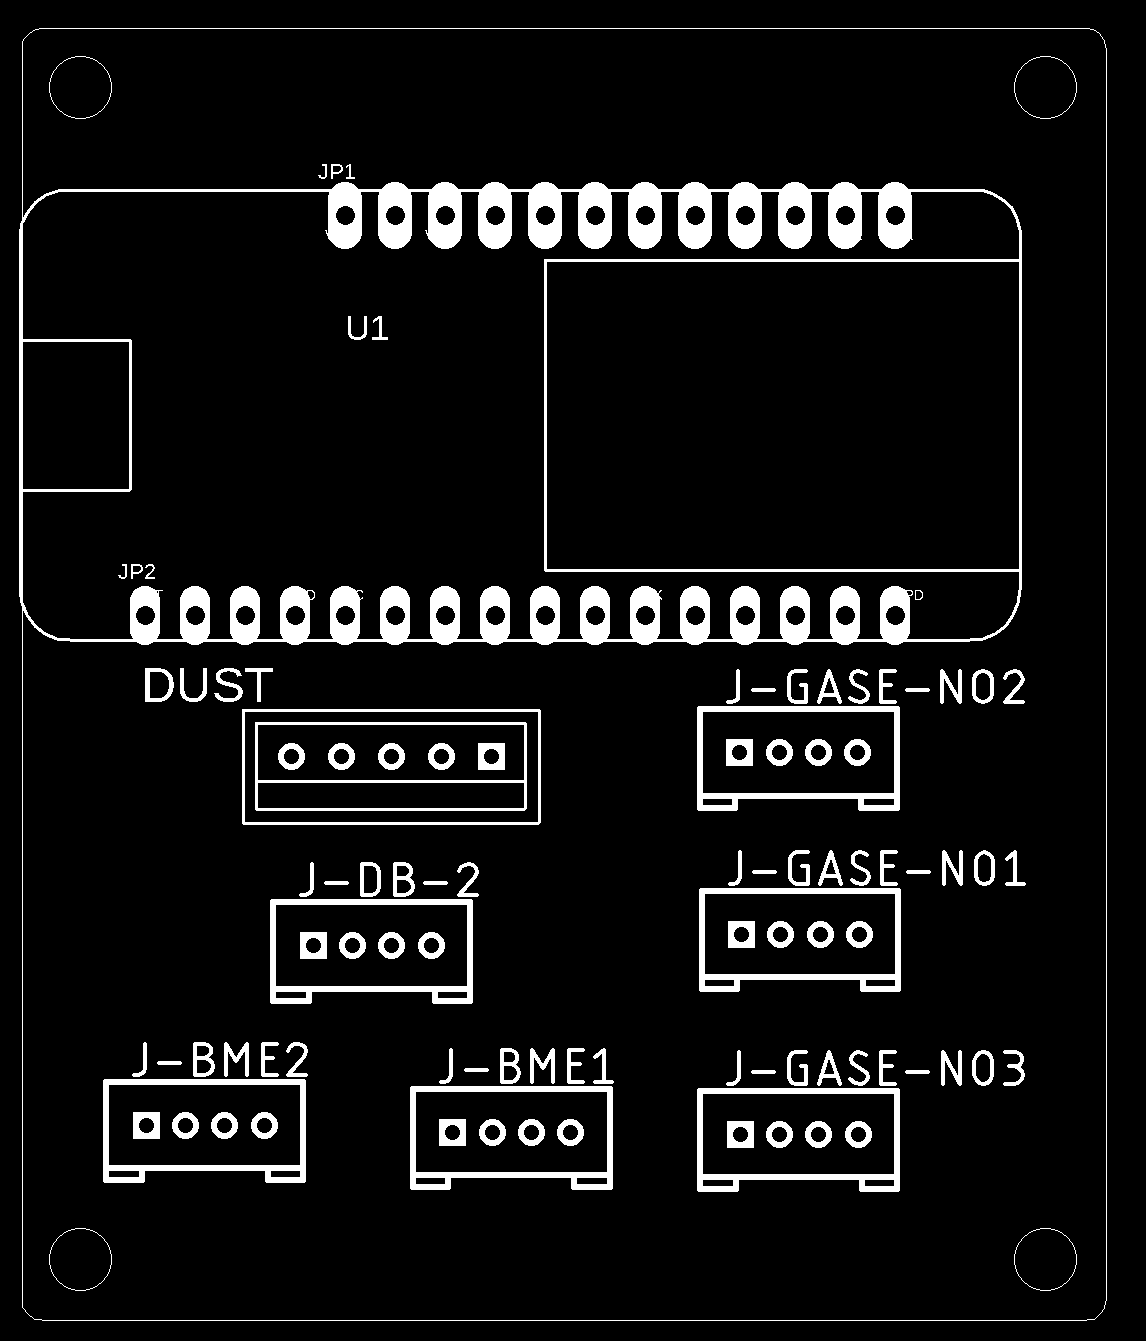
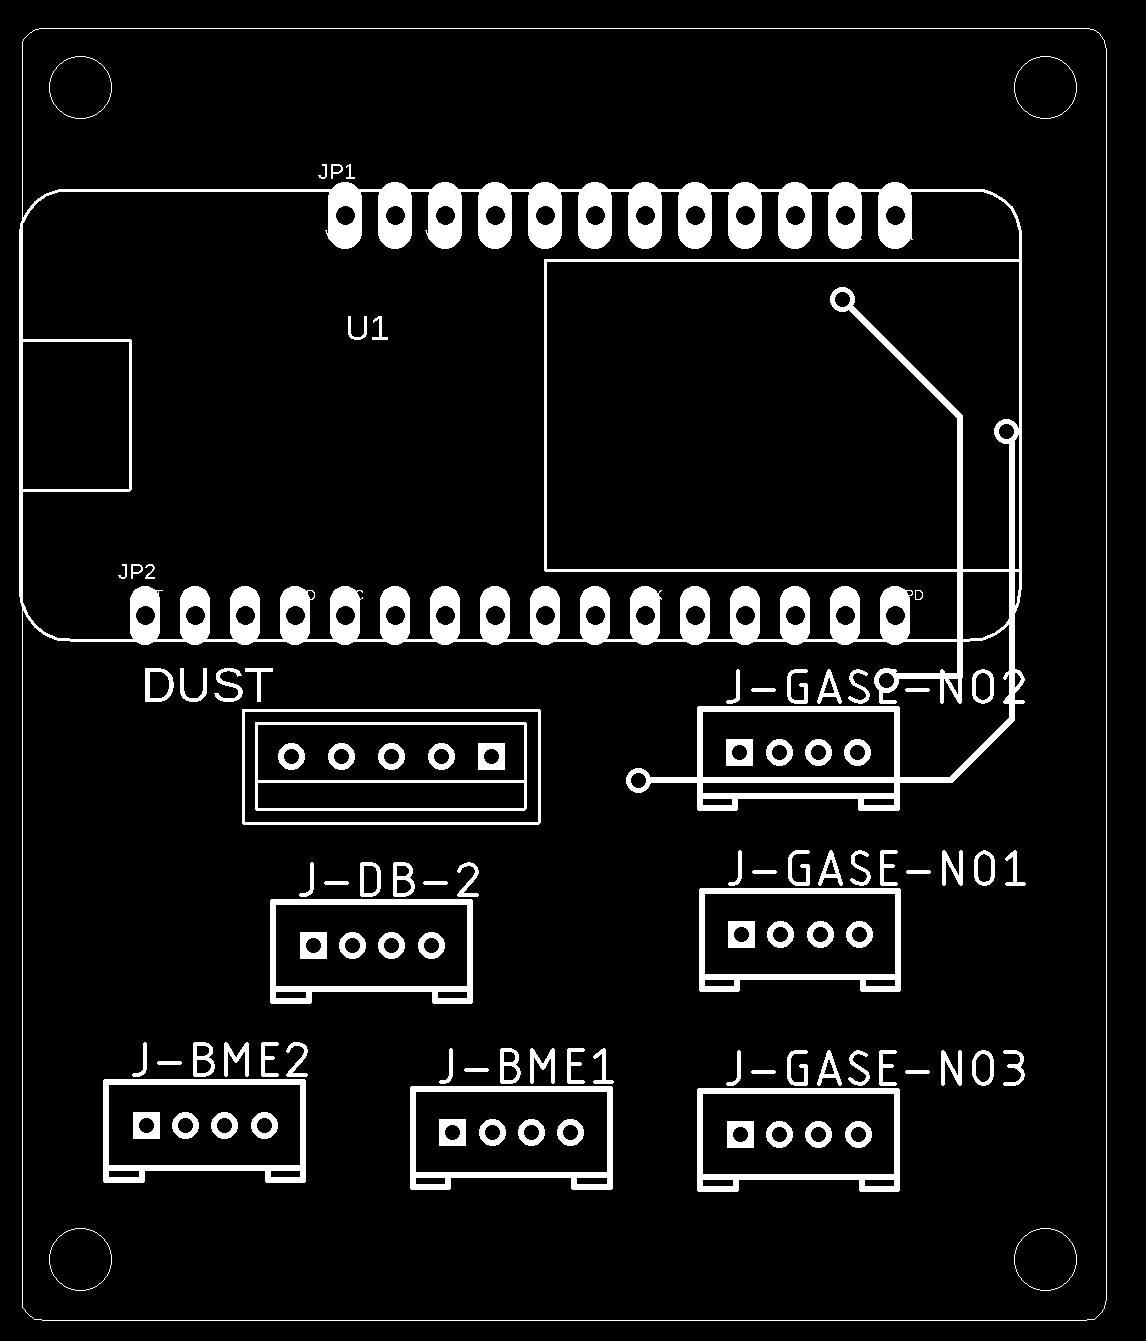
update sensors pcb

diff --git a/MUV Kit/Hardware/README.md b/MUV Kit/Hardware/README.md
@@ -4,7 +4,7 @@
 | top view  | bottom view |
 | ------------- | ------------- |
 | <img src="images/sensors_pcb_top_view.png" width="300">| <img src="images/sensors_pcb_bottom_view.png" width="300"> |
-| Components placed on the top layer <br> <img src="images/sensors_pcb_top_components.png" width="300"> <br> JP1: female THT 1x12 pin header, 2.54pitch <br> JP2: female THT 1x16 pin header 2.54pitch <br> J-GAS, J-DB. J-BME : Grove - Universal 4 Pin connector <br> 05-JST-B5B: Connector Wire-To-Board, B5B-XH-A (LF)(SN) <br> traces: jumper wires| Components placed on the bottom layer <br> <img src="images/sensors_pcb_bottom_components.png" width="300"> <br> Q1/Q2 : BSS138 mosfet, also the NDS355AN from the fab inventory is ok. <br> R1/R2/R3/R4 : 10 Kohm <br> <br><br><br><br>|
+| Components placed on the top layer  <br> but solder on the bottom! <br> <img src="images/sensors_pcb_top_components.png" width="300"> <br> JP1: female THT 1x12 pin header, 2.54pitch <br> JP2: female THT 1x16 pin header 2.54pitch <br> J-GAS, J-DB. J-BME : Grove - Universal 4 Pin connector <br> 05-JST-B5B: Connector Wire-To-Board, B5B-XH-A (LF)(SN) <br> red traces: jumper wires between vias| Components placed on the bottom layer <br> and solder on the bottom side <br> <img src="images/sensors_pcb_bottom_components.png" width="300"> <br> Q1/Q2 : BSS138 mosfet, also the NDS355AN from the fab inventory is ok. <br> R1/R2/R3/R4 : 10 Kohm <br> D1/D2 : diodes <br><br>|
 | <img src="images/sensors_pcb_top.jpg" width="300">  | <img src="images/sensors_pcb_bottom.jpg" width="300">|
 
 On the sensors pcb, it is not necessary to use all the connectors.
